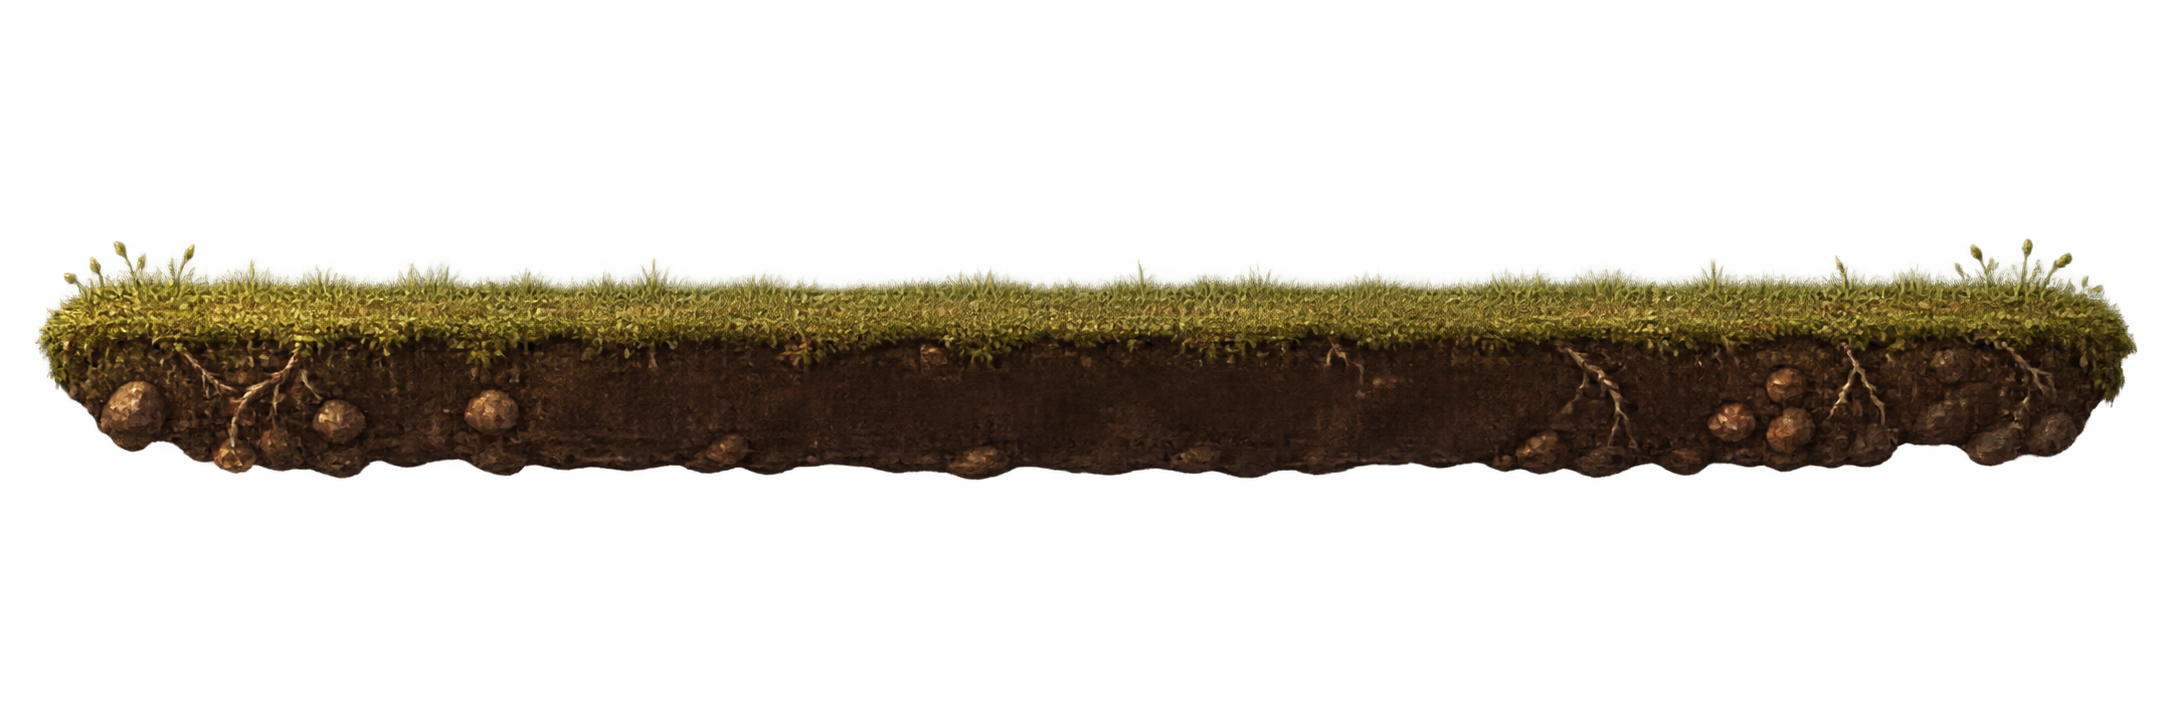
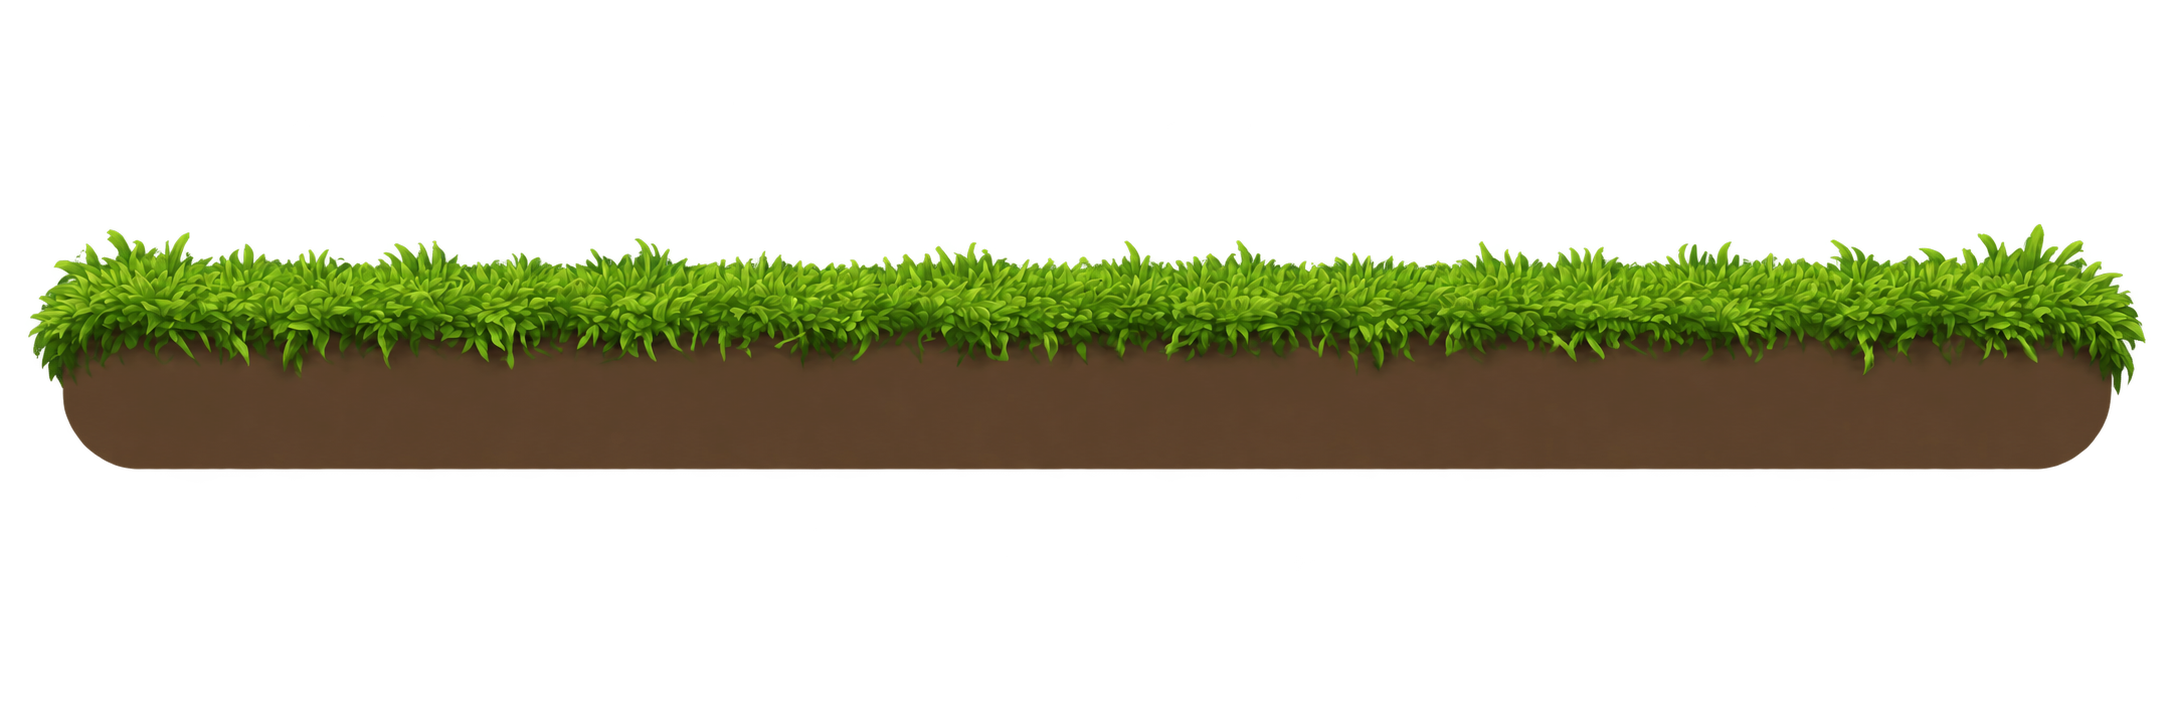
v0.6.12: replace earthy grass dock with lush green turf and smooth soil

Changed region(s): [[0.0, 0.3039, 0.9871, 0.6685]]

diff --git a/assets/art/ART_DIRECTION.md b/assets/art/ART_DIRECTION.md
@@ -64,3 +64,13 @@ Use case: stylized-concept. A production game environment sprite: ONE empty trad
 - 生成提示词：
 
 Create one production game sprite, transparent RGBA background, no lettering no insects no UI buttons. A long low horizontal floating cutaway patch of meadow turf, front/side view with just a slight view of the grassy top, aspect ratio about 5:1. Precise silhouette: flat walkable top rim, short fine mossy olive-green grass along entire top, very shallow earthy brown soil thickness beneath with a few small roots and warm mineral grains. The soil front face must be dark, calm and mostly uncluttered in its center so two UI buttons can later overlay it. Mature delicate hand-painted natural history illustration, slightly realistic, intricate fine brush texture, warm muted bronze and moss colors, soft upper-left light. Isolated on genuinely transparent background with ample transparent padding, no drop-shadow rectangle, no scenery or sky. This will sit beneath a detailed bronze-black cricket in a desktop pet game. Flat horizontal layout not an isometric cube, not cartoon, no bright neon greens. Output crisp high resolution.
+
+## v0.6.12 草地修改
+
+用户要求草色更绿、更浓密，土层为平整纯色，不保留孔洞、根须、石块等写实纹理。使用内置 image_gen 编辑原图，替换 `idle_grass.png`；透明背景与现有按钮布局保留。
+
+最终提示词：
+Edit the provided game platform asset. Keep the same long horizontal platform composition and transparent background, no characters no text no buttons. Completely replace the muddy rocky soil underside with a perfectly smooth SINGLE SOLID COLOR muted dark brown (#65503C) shape, flat 2D fill with a clean straight bottom and softly rounded bottom corners. Absolutely NO holes, pores, stones, roots, speckles, texture, shading, photorealism or uneven scallops in the brown part. The brown front panel is featureless and calming, suitable for overlaying UI buttons. On top, replace the dry yellow olive grass with a lush dense continuous carpet of fresh clearly GREEN grass, rich leaf greens #4F922E and #76B548, thicker and fuller than original, many fine overlapping blades, no sparse bare places and no yellow brown cast. Pleasant stylized hand-painted game grass over flat minimal soil; no realistic dirt. Maintain the original occupied bounds and low wide silhouette approximately. Genuinely transparent alpha background, do not draw checkerboard pattern. This is a direct replacement for a desktop pet grass dock.
+
+透明通道修正提示词（最终采用此轮输出，RGBA alpha 范围 0~255）：
+Keep exactly this lush green grass and clean smooth brown platform, preserving colors, silhouette and all asset details. REMOVE THE BLACK BACKGROUND entirely and export as transparent RGBA PNG with actual alpha=0 outside the platform. This is a game sprite for overlaying a desktop, so there must be genuine transparency around it, not black, not white, not checkerboard, not simulated transparency. Brown region remains flat single uniform brown with no texture and no gradient. No new objects no text. Only correct the transparent background.

diff --git a/AI_HANDOVER.md b/AI_HANDOVER.md
@@ -221,3 +221,7 @@
 - 挂机窗口基准 240×240，角色中心 CX=120；草地通过 manifest 的 grass 条目加载，按钮位于地块内部，等级/经验同排在头顶，mask 与缩放同步。隐藏经验条仍保留地块和按钮。
 - cricket_art.limb_colors 缓存身体贴图采样色，股节纹理从同源贴图裁切绘制；关节、节纹、渐细触须均保持程序动画。勿改回统一浅棕色或固定粗细金线。
 - 新资源 assets/art/idle_grass.png 使用内置 image_gen，完整提示词在 ART_DIRECTION.md。三档缩放预览 docs/ui_idle_sizes.png。完整检查 79 项（玩法 33 项）。
+
+### v0.6.12：草地风格修订（用户明确偏好）
+- 草面必须偏绿色、浓密；地块下半部采用平整纯色，不要孔洞、石块、根须或写实土壤纹理。用户明确不喜欢旧土壤的密集凹凸效果，此要求取代 v0.6.11 的写实泥土方向。
+- 本次只替换草地资源和相应预览，不改变功能按钮、动画或玩法。

diff --git a/docs/CODE_AUDIT.md b/docs/CODE_AUDIT.md
@@ -102,3 +102,7 @@
 ## v0.6.11 补充
 
 草地台座、内嵌按钮、头顶等级与经验横排；肢体材质与身体取色一致。新增草地加载、按钮位置/点击遮罩、多档缩放回归，实际字体宽度适配最小尺寸；已有六品种与死亡/触须回归保留。
+
+## v0.6.12 补充
+
+仅替换草地台座素材：浓密绿色草面、平整棕色土层。已检查实际挂机渲染与按钮布局，完整回归仍为 79 项。

diff --git a/CHANGELOG.md b/CHANGELOG.md
@@ -1,5 +1,10 @@
 # 版本记录
 
+## v0.6.12 · 2026-09-24
+
+- 草地台座改为浓密鲜绿草面，去除枯黄稀疏的观感。
+- 泥土部分改为平整纯色，不再使用孔洞、石块、根须和写实土壤纹理；保留原按钮与顶部状态栏布局。
+
 ## v0.6.11 · 2026-09-24
 
 - 挂机蛐蛐站在手绘草地台座上，装备与副本按钮内嵌地块，等级和经验条横排置于头顶。

diff --git a/README.md b/README.md
@@ -123,7 +123,7 @@ QuQuBattleGame/
 
 每次修改完成并验证后，整理版本说明、提交 commit、创建递增版本 tag，并推送提交和该标签到 origin。玩家存档与偏好不随代码发布。
 
-当前版本：`v0.6.11`，详见 [版本记录](CHANGELOG.md)。
+当前版本：`v0.6.12`，详见 [版本记录](CHANGELOG.md)。
 
 ```
 git commit -m "v0.2: 属性与状态条"
